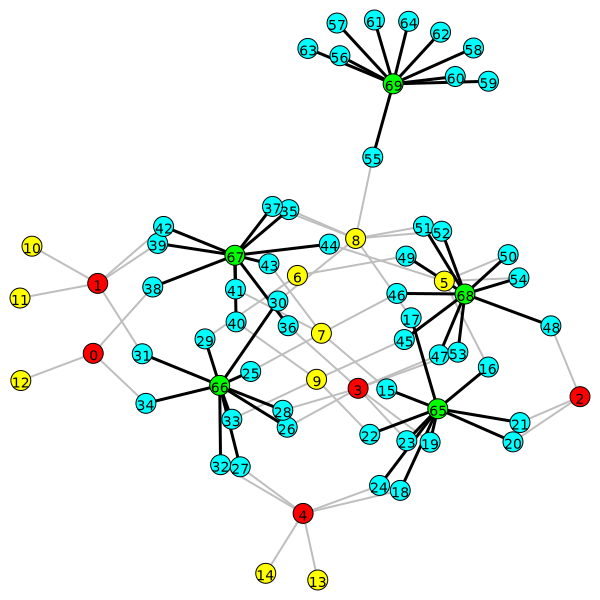
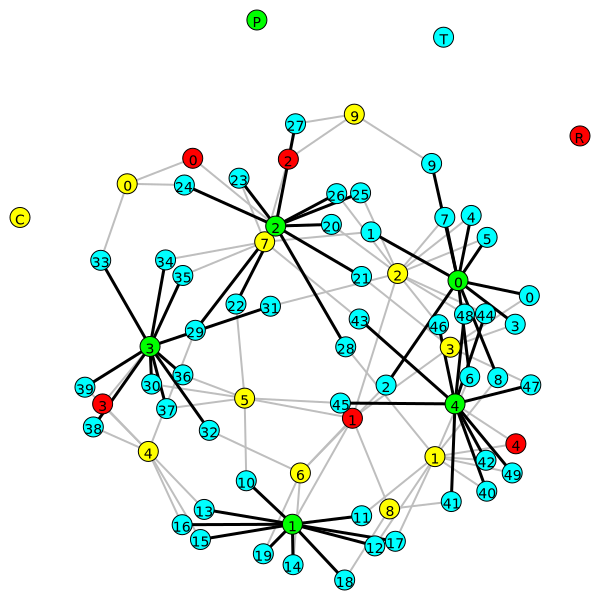
Best known configs: python argparse_ray_main.py --GPUs 3 --IsingMode HCP_dummy --EnergyFunction HCP --N_anneal 500 --N_equil 100 --n_diffusion_steps 4 --minib_diff_steps 4 --batch_size 100 --n_basis_states 1000 --minib_basis_states 25 --noise_potential annealed_obj --project_name HCP_main --seed 420
python argparse_ray_main.py --GPUs 0 --IsingMode HCP_dummy --EnergyFunction HCP --N_anneal 1000 --N_equil 100 --n_diffusion_steps 4 --minib_diff_steps 4 --batch_size 100 --n_basis_states 1000 --minib_basis_states 25 --noise_potential annealed_obj --project_name HCP_main --seed 420 --debug --jit --train_mode PPO --use-sample 1 --temps 0.0075 --T_target 0.0075 --AnnealSchedule linear --embedding_dim 32 --node_transformer_layers 4 --lrs 0.0001

python argparse_ray_main.py --GPUs 4 --IsingMode HCP_dummy --EnergyFunction HCP --N_anneal 2000 --N_equil 100 --n_diffusion_steps 4 --minib_diff_steps 4 --batch_size 100 --n_basis_states 1000 --minib_basis_states 25 --noise_potential annealed_obj --project_name HCP_main --seed 420 --debug --jit --train_mode PPO --use-sample 2 --temps 0.0075 --T_target 0.0075 --AnnealSchedule linear --embedding_dim 32 --node_transformer_layers 4 --lrs 0.0001

diff --git a/Trainers/PPO_Trainer.py b/Trainers/PPO_Trainer.py
@@ -11,6 +11,9 @@ import time
 import optax
 from utils import MovingAverages
 from jax import nn
+from jax.experimental.shard_map import shard_map
+from jax.sharding import Mesh
+from jax.sharding import PartitionSpec as P
 ### TODO use RL environments to make it possible to project solutions onto feasible solutions!
 
 class PPO(Base):
@@ -54,6 +57,7 @@ class PPO(Base):
         self.n_diff_batches = self.n_diffusion_steps // self.n_diff_bs
         self.n_state_batches = self.N_basis_states // self.n_state_bs
         self.n_devices = len(jax.devices())
+        self.mesh = Mesh(jax.devices(), ('device',))
         self._init_index_arrays()
 
         self.best_buffer = None
@@ -89,10 +93,25 @@ class PPO(Base):
 
     @partial(jax.jit, static_argnums=(0,))
     def loss_backward(self, params, opt_state, graphs, batch_dict, key):
+        def squeeze(x):
+            if hasattr(x, 'ndim') and x.ndim > 0 and x.shape[0] == 1:
+                return jnp.squeeze(x, axis=0)
+            return x
+
+        params = jax.tree_util.tree_map(squeeze, params)
+        opt_state = jax.tree_util.tree_map(squeeze, opt_state)
+        graphs = jax.tree_util.tree_map(squeeze, graphs)
+        batch_dict = jax.tree_util.tree_map(squeeze, batch_dict)
+        key = squeeze(key)
+
         (loss, (log_dict, key)), grad = self.PPO_loss_grad(params, graphs, batch_dict, key)
         grad = jax.lax.pmean(grad, axis_name='device')
         params, opt_state = self.__update_params(params, grad, opt_state)
-        return (loss, (log_dict, key)), params, opt_state
+
+        def expand(x):
+            if x is None: return None
+            return jnp.expand_dims(x, axis=0)
+        return jax.tree_util.tree_map(expand, ((loss, (log_dict, key)), params, opt_state))
 
     @partial(jax.jit, static_argnums=(0,))
     def __update_params(self, params, grads, opt_state):
@@ -356,7 +375,25 @@ class PPO(Base):
         batch_dict, key = select_time_indices(graphs["graphs"][0].graph, RL_buffer, split_diff_arr, split_state_arr, key)
         key, subkey = jax.random.split(key)
         batched_key = jax.random.split(subkey, num=len(jax.devices()))
-        (loss, (loss_dict, _)), params, opt_state = self.pmap_PPO_loss_backward(params, opt_state, graphs, batch_dict, batched_key)
+        
+        def get_spec(x):
+            return P('device') if x is not None else None
+
+        in_specs = jax.tree_util.tree_map(get_spec, (params, opt_state, graphs, batch_dict, batched_key))
+        
+        sliced_inputs = jax.tree_util.tree_map(lambda x: x[0:1] if x is not None else None, (params, opt_state, graphs, batch_dict, batched_key))
+        abstract_out = jax.eval_shape(self.loss_backward_no_sync, *sliced_inputs)
+        out_specs = jax.tree_util.tree_map(get_spec, abstract_out)
+
+        sharded_loss_backward = shard_map(
+            self.loss_backward,
+            mesh=self.mesh,
+            in_specs=in_specs,
+            out_specs=out_specs,
+            check_rep=False
+        )
+
+        (loss, (loss_dict, _)), params, opt_state = sharded_loss_backward(params, opt_state, graphs, batch_dict, batched_key)
         return (loss, (loss_dict, key)), params, opt_state
 
 
@@ -656,6 +693,26 @@ class PPO(Base):
                     "spin_log_probs": spin_log_probs,
                     }
         return log_dict, key
+    
+    def loss_backward_no_sync(self, params, opt_state, graphs, batch_dict, key):
+        def squeeze(x):
+            if hasattr(x, 'ndim') and x.ndim > 0 and x.shape[0] == 1:
+                return jnp.squeeze(x, axis=0)
+            return x
+
+        params = jax.tree_util.tree_map(squeeze, params)
+        opt_state = jax.tree_util.tree_map(squeeze, opt_state)
+        graphs = jax.tree_util.tree_map(squeeze, graphs)
+        batch_dict = jax.tree_util.tree_map(squeeze, batch_dict)
+        key = squeeze(key)
+
+        (loss, (log_dict, key)), grad = self.PPO_loss_grad(params, graphs, batch_dict, key)
+        params, opt_state = self.__update_params(params, grad, opt_state)
+
+        def expand(x):
+            if x is None: return None
+            return jnp.expand_dims(x, axis=0)
+        return jax.tree_util.tree_map(expand, ((loss, (log_dict, key)), params, opt_state))
 
     @partial(jax.jit, static_argnums=(0,))
     def _get_noise_distr_step(self, jraph_graph, X_prev, X_next, t_idx, node_gr_idx, T,  noise_rewards_arr):

diff --git a/EnergyFunctions/HCPEnergy.py b/EnergyFunctions/HCPEnergy.py
@@ -79,7 +79,7 @@ class HCPEnergyClass(BaseEnergyClass):
         ).astype(jnp.float32)
 
         total_energy = (
-            self.energy_weights["energy_ownerships"] * ownership_weight * (energy_ownerships / meta_graph.meta["things"]) ** 1 + 
+            self.energy_weights["energy_ownerships"] * ownership_weight * (energy_ownerships / meta_graph.meta["things"]) ** 2 + 
             self.energy_weights["energy_things_per_cabinet"] * energy_things_per_cabinet / meta_graph.meta["things"] + 
             self.energy_weights["energy_cabinets_per_room"] * energy_cabinets_per_room / meta_graph.meta["cabinets"] + 
             jnp.sqrt(self.energy_weights["energy_order_violations"] *  energy_order_violations_things / expected_num_inversions(meta_graph.meta["things"])) +
@@ -90,13 +90,15 @@ class HCPEnergyClass(BaseEnergyClass):
             "energy_ownerships": energy_ownerships,
             "energy_things_per_cabinet": energy_things_per_cabinet,
             "energy_cabinets_per_room": energy_cabinets_per_room,
-            "energy_order_violations": energy_order_violations_things,
-            "weighted_ownerships": self.energy_weights["energy_ownerships"] * ownership_weight * energy_ownerships / meta_graph.meta["things"],
+            "energy_order_violations_things": energy_order_violations_things,
+            "energy_order_violations_cabinets": energy_order_violations_cabinets,
+            "energy_order_violations_rooms": energy_order_violations_rooms,
+            "weighted_ownerships": self.energy_weights["energy_ownerships"] * ownership_weight * (energy_ownerships / meta_graph.meta["things"]) ** 2,
             "weighted_things_per_cabinet": self.energy_weights["energy_things_per_cabinet"] * energy_things_per_cabinet / meta_graph.meta["things"],
-            "weighted_cabinets_per_room": self.energy_weights["energy_cabinets_per_room"] * energy_cabinets_per_room / meta_graph.meta["cabinets"] ,
-            "weighted_order_violations": self.energy_weights["energy_order_violations"] * energy_order_violations_things / expected_num_inversions(meta_graph.meta["things"]),
-            "weighted_order_violations_cabinets": self.energy_weights["energy_order_violations_cabinets"] * energy_order_violations_cabinets / meta_graph.meta["cabinets"] **2,
-            "weighted_order_violations_rooms": self.energy_weights["energy_order_violations_rooms"] * energy_order_violations_rooms / meta_graph.meta["rooms"] **2,
+            "weighted_cabinets_per_room": self.energy_weights["energy_cabinets_per_room"] * energy_cabinets_per_room / meta_graph.meta["cabinets"],
+            "weighted_order_violations_things": jnp.sqrt(self.energy_weights["energy_order_violations"] *  energy_order_violations_things / expected_num_inversions(meta_graph.meta["things"])),
+            "weighted_order_violations_cabinets": jnp.sqrt(self.energy_weights["energy_order_violations_cabinets"] *  energy_order_violations_cabinets / meta_graph.meta["cabinets"] ** 2),
+            "weighted_order_violations_rooms": jnp.sqrt(self.energy_weights["energy_order_violations_rooms"] * energy_order_violations_rooms / meta_graph.meta["rooms"] ** 2),
         }
         return total_energy, breakdown, energy_per_node
 

diff --git a/argparse_ray_main.py b/argparse_ray_main.py
@@ -152,7 +152,7 @@ def meanfield_run():
         if args.EnergyFunction == "MIS":
             run(flexible_config = {"jit": False, "dataset_name": "RB_iid_100", "problem_name": "MIS", "edge_updates": False, "mode_node_edge": "node", "n_diffusion_steps": 3}, overwrite = True)
         else:
-            run(flexible_config = {"load_only_params": args.load_only_params, "node_transformer_num_layers": args.node_transformer_layers, "N_equil": args.N_equil, "AnnealSchedule": args.AnnealSchedule, "use_sample": args.use_sample, "jit": args.jit, "dataset_name": "HCP_dummy", "problem_name": "HCP", "edge_updates": True, "N_anneal": args.N_anneal[0], "load_wandb_id": args.load_wandb_id, "n_diffusion_steps": args.n_diffusion_steps[0], "minib_diff_steps": args.minib_diff_steps, "minib_basis_states": args.minib_basis_states, "N_basis_states": args.n_basis_states[0], "train_mode": args.train_mode, "T_max": args.temps[0], "T_target": args.T_target, "T_explore": args.T_explore, "anneal_explore_period": args.anneal_explore_period, "explore_fraction": args.explore_fraction, "embedding_dim": args.embedding_dim}, overwrite = True) # "load_wandb_id": "oz5t74ww"
+            run(flexible_config = {"load_only_params": args.load_only_params, "node_transformer_num_layers": args.node_transformer_layers, "N_equil": args.N_equil, "AnnealSchedule": args.AnnealSchedule, "use_sample": args.use_sample, "jit": args.jit, "dataset_name": "HCP_dummy", "problem_name": "HCP", "edge_updates": True, "N_anneal": args.N_anneal[0], "load_wandb_id": args.load_wandb_id, "n_diffusion_steps": args.n_diffusion_steps[0], "minib_diff_steps": args.minib_diff_steps, "minib_basis_states": args.minib_basis_states, "N_basis_states": args.n_basis_states[0], "train_mode": args.train_mode, "T_max": args.temps[0], "T_target": args.T_target, "T_explore": args.T_explore, "anneal_explore_period": args.anneal_explore_period, "explore_fraction": args.explore_fraction, "embedding_dim": args.embedding_dim, "lr": args.lrs[0], "min_lr": args.lrs[0] / 10}, overwrite = True) # "load_wandb_id": "oz5t74ww"
     elif(args.multi_gpu):
         detect_and_run_for_loops()
     # else:
@@ -366,7 +366,7 @@ def run( flexible_config, overwrite = True):
         "node_transformer_dropout_rate": 0.0,
         "sample_groupwise": False,
         "transformer_type": "linear",
-        "sample_multiplier": 2,
+        "sample_multiplier": 1,
         "anneal_cycle_length": 200,
         "ownership_weight": 1.0,
         "energy_weights": {
@@ -374,8 +374,8 @@ def run( flexible_config, overwrite = True):
             "energy_things_per_cabinet": 1.0,
             "energy_cabinets_per_room": 1.0,
             "energy_order_violations": 3.0,
-            "energy_order_violations_cabinets": .0,
-            "energy_order_violations_rooms": .0,
+            "energy_order_violations_cabinets": 0.,
+            "energy_order_violations_rooms": 0.,
             "exp_cabinets_things_rooms": 2.0,
         }
     }

diff --git a/HCPEnergy_test.py b/HCPEnergy_test.py
@@ -4,19 +4,12 @@ import jax.numpy as jnp
 import numpy as np
 from DatasetCreator.loadGraphDatasets.HCPDatasetGenerator import plot
 from Data.LoadGraphDataset import SolutionDatasetLoader
-<<<<<<< Updated upstream
-from house_config import compute_node_graph_indices, pad_energy_graph, sample_prior_state
-import argparse
-import os
-=======
-from EnergyFunctions.HCPEnergy_conti import HCPEnergyClassContinuous
 from house_config import compute_node_graph_indices, pad_energy_graph, sample_prior_state
 import argparse
 import os
 import itertools
 
 from house_config.utils import prior_logits_for_graph
->>>>>>> Stashed changes
 
 os.environ["CUDA_VISIBLE_DEVICES"] = "0"
 
@@ -76,10 +69,7 @@ if __name__ == "__main__":
     }
 
     energy_fn = HCPEnergyClass(base_config)
-<<<<<<< Updated upstream
-=======
-    cont_energy_fn = HCPEnergyClassContinuous(base_config)
->>>>>>> Stashed changes
+
     dataset_loader = SolutionDatasetLoader(
         config=base_config,
         dataset=args.dataset,
@@ -97,11 +87,7 @@ if __name__ == "__main__":
 
     dataset_stats = _build_dataset_statistics(dataloader)
 
-<<<<<<< Updated upstream
-    batch = next(iter(dataloader))
-=======
     batch = next(x for i,x in enumerate(iter(dataloader)) if i==0)
->>>>>>> Stashed changes
     graph_with_meta = batch["energy_graph"][0]
     key = jax.random.PRNGKey(args.sample_seed)
     raw_sample, _, key = sample_prior_state(graph_with_meta, key)
@@ -124,15 +110,11 @@ if __name__ == "__main__":
     prior_sample = np.full((total_nodes,), -1)
     #prior_sample[15:65] = raw_sample[15:65]
     prior_sample = raw_sample[:-1]
-    plot(None, node_types, "prior_nodes.png", solution_nodes=prior_sample, meta_graph=graph_with_meta)
+    plot(None, node_types[:-1], "prior_nodes.png", solution_nodes=prior_sample, meta_graph=graph_with_meta, include_legend=True)
 
-<<<<<<< Updated upstream
-=======
     sample_logits = prior_logits_for_graph(graph_with_meta)
     energy_fn.calculate_Energy(energy_graph, energy_graph.globals["solution_nodes"].squeeze(), node_gr_idx)
-    cont_energy_fn.calculate_Energy(energy_graph, jax.nn.one_hot(energy_graph.globals["solution_nodes"].squeeze(), energy_graph.meta["cabinets"]), node_gr_idx)
-
->>>>>>> Stashed changes
+    
     assert energy_fn.calculate_Energy(energy_graph, energy_graph.globals["solution_nodes"].squeeze(), node_gr_idx)[0].sum() == 0
     energy, violations, hb = energy_fn.calculate_Energy(energy_graph, raw_sample.astype(jnp.int32), node_gr_idx)
     print(f"Loaded dataset='{args.dataset}' mode='{args.mode}' sample={args.sample_idx}")

diff --git a/DatasetCreator/loadGraphDatasets/HCPDatasetGenerator.py b/DatasetCreator/loadGraphDatasets/HCPDatasetGenerator.py
@@ -181,7 +181,7 @@ class HCProblem:
 	
 def plot(igraph, node_types, target, include_legend=False, bin_solution_edge=None, solution_nodes = None, verbose=False, meta_graph=None):
 	if solution_nodes is not None:
-		solution_nodes = solution_nodes[meta_graph.globals["node_types"][0] >= 0]
+		solution_nodes = solution_nodes[(node_types if node_types is not None else meta_graph.globals["node_types"][0]) >= 0]
 		offset_node_types = meta_graph.globals["offset_per_node_type"]
 		while offset_node_types.ndim > 1:
 			offset_node_types = offset_node_types[0]
@@ -200,11 +200,6 @@ def plot(igraph, node_types, target, include_legend=False, bin_solution_edge=Non
 	vertex_label_appendix = []
 	vertex_color_appendix = []
 
-
-	if include_legend:
-		plot_graph.add_vertices(4)
-		vertex_color_appendix = [VERTEX_COLORS[t] for t in list(VERTEX_LABELS.keys())[:-1]]
-		vertex_label_appendix = [VERTEX_LABELS[t] for t in list(VERTEX_LABELS.keys())[:-1]]
 
 	mismatches = -1
 
@@ -247,6 +242,13 @@ def plot(igraph, node_types, target, include_legend=False, bin_solution_edge=Non
 
 	
 		print(f"Mismatches: {mismatches}")
+	
+	node_types = node_types[:len(plot_graph.vs)]
+
+	if include_legend:
+		plot_graph.add_vertices(4)
+		vertex_color_appendix = [VERTEX_COLORS[t] for t in list(VERTEX_LABELS.keys())[:-1]]
+		vertex_label_appendix = [VERTEX_LABELS[t] for t in list(VERTEX_LABELS.keys())[:-1]]
 
 	edge_colors = ["black" if node_types[e[0]] == 2 and node_types[e[1]] == 3 else "grey" for e in edges]
 	edge_widths = [3 if node_types[e[0]] == 2 and node_types[e[1]] == 3 else 2 for e in edges]
@@ -354,6 +356,3 @@ class HCPDatasetGenerator(BaseDatasetGenerator):
 					indexed_solution_dict[key] = solutions[key][idx]
 			self.save_instance_solution(indexed_solution_dict, idx)
 		self.save_solutions(solutions)
-
-
-
